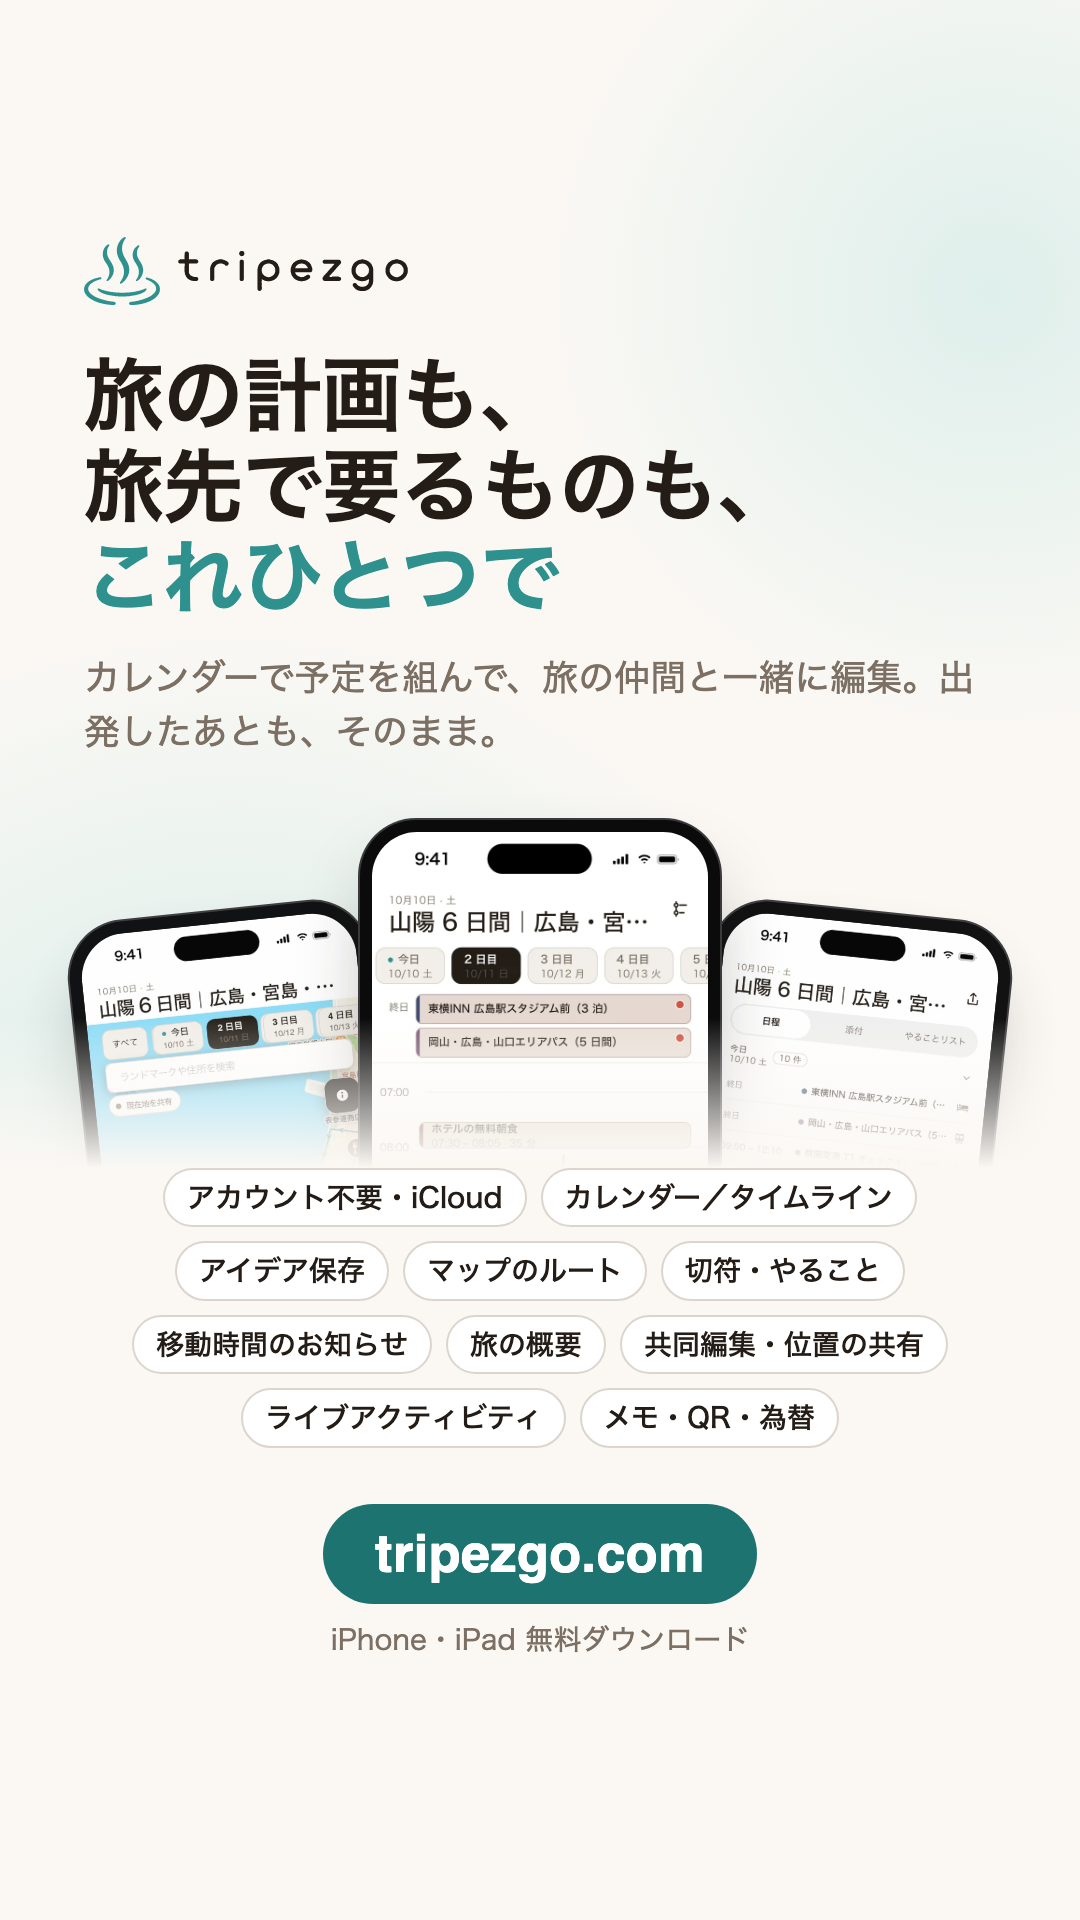
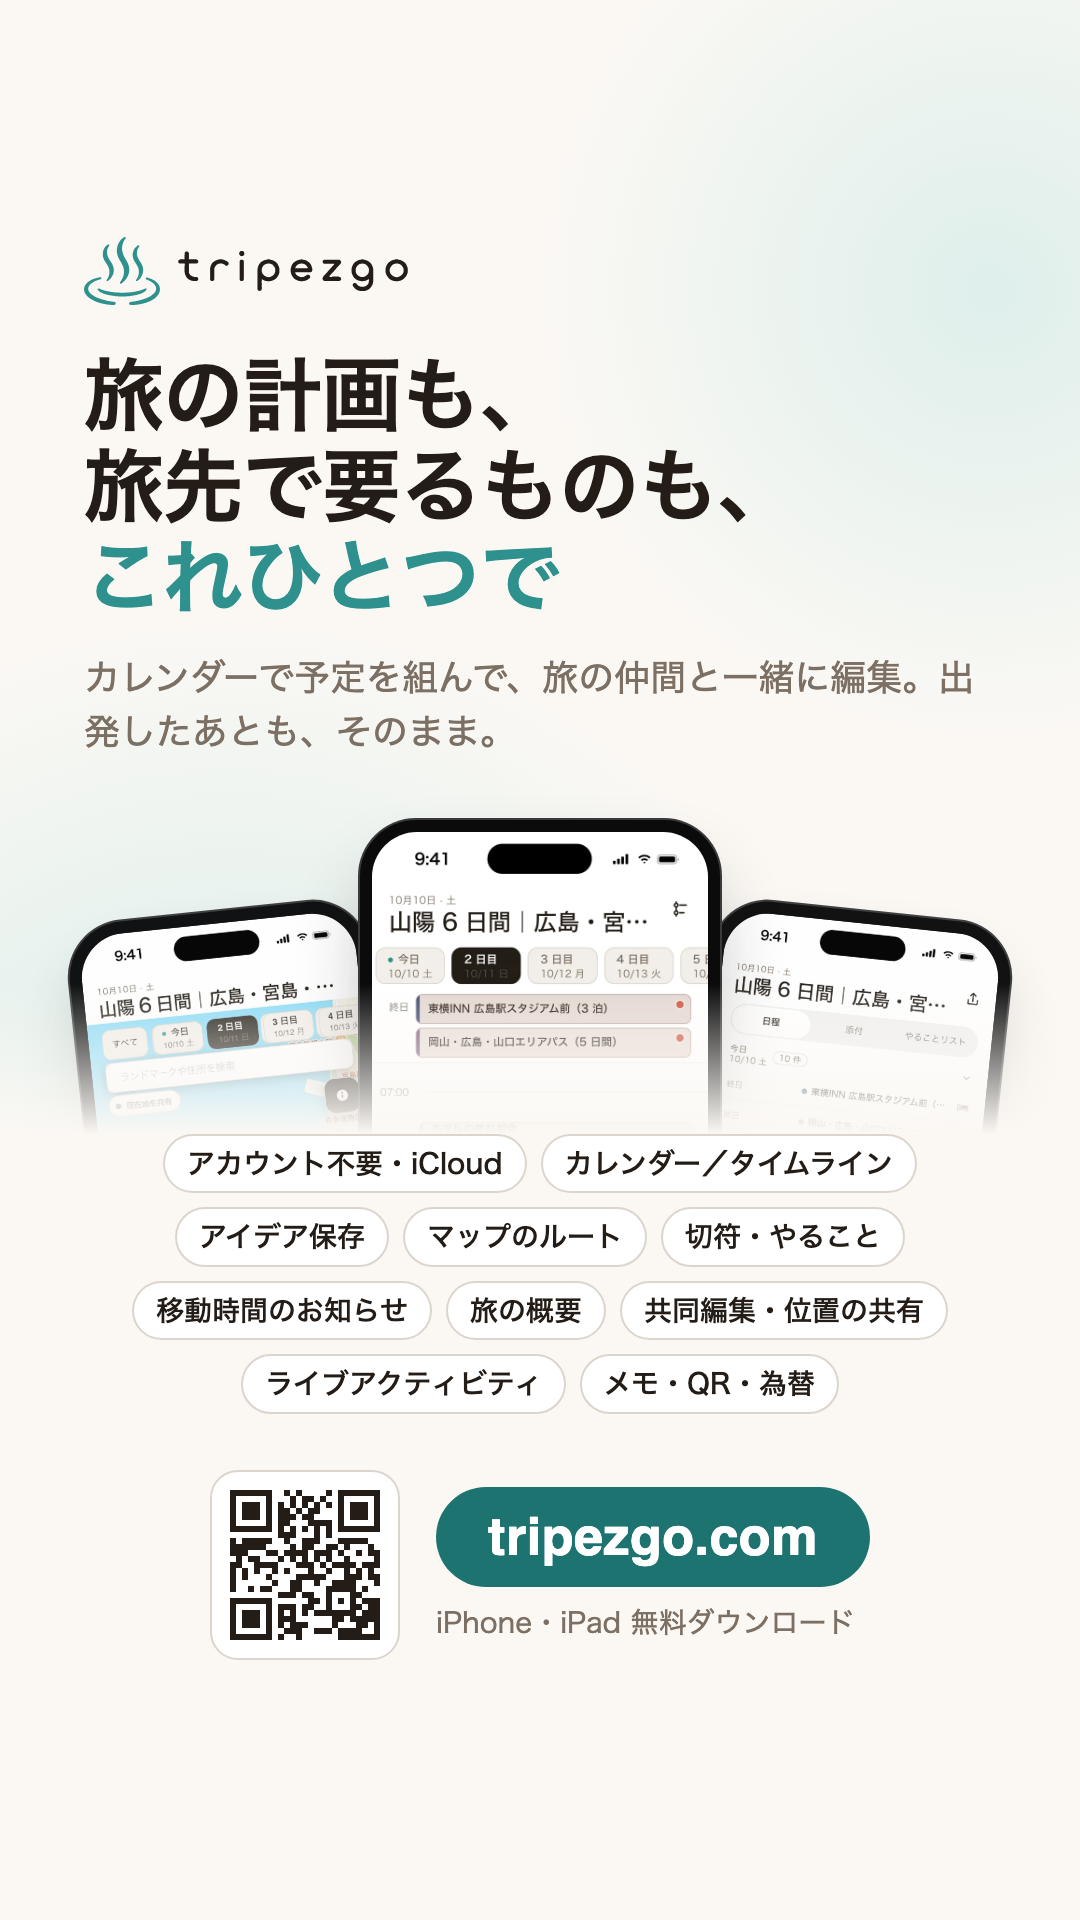
home offer: copy changes to 'copied' on the first tap on iPhone Safari (synchronous copy first, hover styles only for a mouse); Instagram puts the Story image on the clipboard and opens Instagram's Story camera directly; the Story image carries a QR code for tripezgo.com, so the link-sticker note is

Changed region(s): [[0.0611, 0.5, 0.8556, 0.875], [0.8861, 0.5, 0.9472, 0.5938]]

diff --git a/assets/js/promo.js b/assets/js/promo.js
@@ -216,27 +216,42 @@ function start() {
     copyBtn.classList.remove('is-done'); copyLabel.textContent = T.copy;
     if (stage === 2) { stage = 1; render(); }
   });
-  copyBtn.addEventListener('click', async () => {
-    try { await navigator.clipboard.writeText(text); copyLabel.textContent = T.copied; }
-    catch { copyLabel.textContent = T.copyFailed; }
-    copyBtn.classList.add('is-done');
-    advance(2);
+  // 複製：先在同一個手勢裡同步複製（隱藏 textarea＋execCommand），按下去當下就變「已複製」；
+  // iPhone Safari 等 navigator.clipboard 的 Promise 時第一下看起來沒反應（使用者 2026-10-24），這條只在同步複製失敗時才走。
+  const copied = (ok) => { copyLabel.textContent = ok ? T.copied : T.copyFailed; copyBtn.classList.add('is-done'); advance(2); };
+  copyBtn.addEventListener('click', () => {
+    const ta = Object.assign(document.createElement('textarea'), { value: text, readOnly: true });
+    ta.style.cssText = 'position:fixed;top:0;left:0;opacity:0;font-size:16px';   // 16px：iOS 不會因為選取而放大頁面
+    document.body.append(ta); ta.select(); ta.setSelectionRange(0, text.length);
+    let ok = false;
+    try { ok = document.execCommand('copy'); } catch {}
+    ta.remove(); getSelection()?.removeAllRanges();
+    if (ok || !navigator.clipboard) return copied(ok);
+    navigator.clipboard.writeText(text).then(() => copied(true), () => copied(false));
   });
   // 按過分享、而且從社群那一頁回來（分頁重新可見或視窗重新取得焦點）才算完成第 2 步
   root.querySelectorAll('a[data-net]').forEach((a) => {
     a.addEventListener('click', (e) => { if (allowed(2, e)) { a.href = shareUrl(a.dataset.net); a.classList.add('is-done'); shared = true; } });
   });
-  // Instagram：網頁不能直接發限時動態，改成把限時動態圖（assets/img/story-<lang>.png，tools/og/story.html 產生）
-  // 交給系統分享表，在手機上選 Instagram 就會進限時動態；不能分享檔案的瀏覽器（桌機）就下載圖片並說明怎麼發。
-  // 圖片進來就先抓好：iOS Safari 要在按下去的同一個手勢裡呼叫 navigator.share，按了才去抓會被擋。
+  // Instagram：網頁沒辦法把圖交給 instagram-stories:// —— 官方那條要 Facebook App ID 加 UIPasteboard 自訂型別／Android Intent，
+  // 只有原生 App 做得到（developers.facebook.com/docs/instagram-platform/sharing-to-stories）。
+  // 手機上改成：把限時動態圖（assets/img/story-<lang>.png，tools/og/story.html 產生）放進剪貼簿，再用 instagram://story-camera
+  // 直接打開 Instagram 的限時動態相機，圖在剪貼簿裡可以貼上；剪貼簿寫不進圖片就退回系統分享表。
+  // 桌機打不開 Instagram，下載圖片並說明怎麼發。
+  // 圖片進來就先抓好：剪貼簿與分享表都要在按下去的同一個手勢裡呼叫，按了才去抓會被擋。
   const ig = root.querySelector('[data-net="instagram"]');
   let story = null;
   fetch(`/assets/img/story-${LANG}.png`).then((r) => r.blob()).then((b) => { story = new File([b], 'tripezgo-story.png', { type: 'image/png' }); }).catch(() => {});
+  const shareSheet = () => navigator.share({ files: [story] }).then(() => { shared = true; advance(3); }).catch(() => {});
   ig.addEventListener('click', (e) => {
     if (!allowed(2, e) || !story) return;
     ig.classList.add('is-done');
-    if (navigator.canShare?.({ files: [story] })) {
-      navigator.share({ files: [story] }).then(() => { shared = true; advance(3); }).catch(() => {});
+    if (matchMedia('(pointer: coarse)').matches && navigator.clipboard?.write && window.ClipboardItem) {
+      navigator.clipboard.write([new ClipboardItem({ 'image/png': story })])
+        .then(() => { shared = true; location.href = 'instagram://story-camera'; })
+        .catch(() => { if (navigator.canShare?.({ files: [story] })) shareSheet(); });
+    } else if (navigator.canShare?.({ files: [story] })) {
+      shareSheet();
     } else {
       const a = Object.assign(document.createElement('a'), { href: URL.createObjectURL(story), download: story.name });
       a.click(); setTimeout(() => URL.revokeObjectURL(a.href), 1000);

diff --git a/assets/css/home.css b/assets/css/home.css
@@ -930,7 +930,8 @@ html, body { overflow-x: clip; overscroll-behavior-x: none; }
   box-shadow:0 10px 24px -12px color-mix(in srgb, var(--accent-ink) 80%, transparent);
   transition:transform .12s ease, background-color .12s ease;
 }
-.promo-jump:hover { color:var(--accent-on); background:color-mix(in srgb, var(--accent-ink) 82%, var(--fg)); transform:translateY(-1px); }
+/* hover 只給滑鼠：手機上第一下會先被當成 hover（iPhone Safari 要點兩下） */
+@media (hover:hover) { .promo-jump:hover { color:var(--accent-on); background:color-mix(in srgb, var(--accent-ink) 82%, var(--fg)); transform:translateY(-1px); } }
 .promo-jump-tag {
   flex:none; padding:3px 10px; border-radius:var(--radius-pill);
   background:var(--accent-on); color:var(--accent-ink); font-size:var(--text-xs); font-weight:700;
@@ -986,7 +987,8 @@ html, body { overflow-x: clip; overscroll-behavior-x: none; }
   border-radius:var(--radius-pill); border:1px solid var(--border); background:var(--page);
   color:var(--fg); font:inherit; font-size:var(--text-sm); font-weight:600; text-decoration:none; cursor:pointer;
 }
-.promo .chip:hover { border-color:var(--accent); background:var(--accent-wash); color:var(--fg); }
+@media (hover:hover) { .promo .chip:hover { border-color:var(--accent); background:var(--accent-wash); color:var(--fg); } }
+.promo .chip, .promo .btn-redeem, .promo-jump { touch-action:manipulation; -webkit-tap-highlight-color:transparent; }
 .promo .chip .i { width:16px; height:16px; color:var(--accent-ink); }
 .promo .chip.is-done { border-color:var(--accent-ink); color:var(--accent-ink); }
 .promo .redeem-row { margin-top:12px; }
@@ -994,5 +996,4 @@ html, body { overflow-x: clip; overscroll-behavior-x: none; }
 .promo .btn-redeem[aria-disabled="true"] { opacity:.45; cursor:not-allowed; pointer-events:auto; }
 .promo .btn-redeem[aria-disabled="true"]:hover { transform:none; background:var(--accent-ink); }
 .promo .step-body > p.redeem-hint { font-size:12.5px; }
-.promo .step-body > p.ig-note { margin-top:10px; font-size:12.5px; }
 @media (prefers-reduced-motion:reduce) { .promo-jump-go { animation:none; } .promo .step { transition:none; } }

diff --git a/tools/og/story.html b/tools/og/story.html
@@ -47,7 +47,11 @@
   .feats span { padding:12px 24px; border-radius:999px; background:#fff; border:2px solid #dbd5cd;
     font-size:30px; font-weight:600; line-height:1.2; white-space:nowrap; }
   body[data-lang="en"] .feats span, body[data-lang="ja"] .feats span { font-size:28px; padding:11px 22px; }
-  .url { display:flex; flex-direction:column; align-items:center; gap:14px; }
+  /* 網址列：左邊 tripezgo.com 的 QR code（assets/img/site-qr.svg），右邊網址膠囊＋下載說明 */
+  .url-row { display:flex; align-items:center; gap:36px; }
+  .qr { flex:none; width:190px; height:190px; padding:18px; border-radius:28px; background:#fff; border:2px solid #dbd5cd; box-sizing:border-box; }
+  .qr i { display:block; width:100%; height:100%; background:var(--ink); -webkit-mask:url(../../assets/img/site-qr.svg) center/contain no-repeat; }
+  .url { display:flex; flex-direction:column; align-items:flex-start; gap:14px; }
   .url b { display:inline-block; padding:20px 52px; border-radius:999px; background:var(--teal-ink); color:#fff;
     font-family:-apple-system,"SF Pro Display","Inter",sans-serif; font-size:52px; letter-spacing:.01em; }
   .url small { font-size:28px; color:var(--muted); font-weight:500; }
@@ -66,7 +70,10 @@
   </div>
   <div class="bottom">
     <div class="feats" id="feats"></div>
-    <div class="url"><b>tripezgo.com</b><small id="dl"></small></div>
+    <div class="url-row">
+      <div class="qr"><i></i></div>
+      <div class="url"><b>tripezgo.com</b><small id="dl"></small></div>
+    </div>
   </div>
 <script>
   // 標題的 [ ] 是青綠色那一段；十大特色照廣告片的十個章節（官網首頁的順序）

diff --git a/ja/index.html b/ja/index.html
@@ -34,9 +34,9 @@
 <meta name="twitter:title" content="TripEZGo — 旅行計画・旅程表アプリ｜カレンダーで予定、旅の仲間と共同編集">
 <meta name="twitter:description" content="iPhone・iPad の旅行計画アプリ。カレンダーで旅程表を作り、移動はタイムラインで、旅の仲間と共同編集。登録不要・オフライン対応、無料でダウンロード。">
 <meta name="twitter:image" content="https://tripezgo.com/assets/img/og-ja.png">
-<link rel="stylesheet" href="/assets/css/home.css?v=4e5d98ad4b">
+<link rel="stylesheet" href="/assets/css/home.css?v=888a7e6f63">
 <script type="module" src="/assets/js/home.js?v=98d4b33830"></script>
-<script type="module" src="/assets/js/promo.js?v=fafb8e8867"></script>
+<script type="module" src="/assets/js/promo.js?v=5c0000bbe0"></script>
 <script type="application/ld+json">
 {
   "@context": "https://schema.org",
@@ -247,7 +247,6 @@
                 <a class="chip" data-net="x" href="#" target="_blank" rel="noopener">X</a>
                 <a class="chip" data-net="line" href="#" target="_blank" rel="noopener">LINE</a>
               </div>
-              <p class="ig-note">Instagram ではストーリーズ用の画像をシェアします。tripezgo.com のリンクスタンプを付けてください。</p>
             </div>
           </li>
           <li class="step">

diff --git a/ko/index.html b/ko/index.html
@@ -34,9 +34,9 @@
 <meta name="twitter:title" content="TripEZGo — 여행 플래너 앱｜캘린더로 일정, 동행과 공동 편집">
 <meta name="twitter:description" content="iPhone·iPad 여행 플래너 앱. 캘린더로 일정을 짜고 이동은 타임라인으로, 동행과 함께 편집하세요. 회원가입 없이 오프라인에서도, 무료로 다운로드.">
 <meta name="twitter:image" content="https://tripezgo.com/assets/img/og-ko.png">
-<link rel="stylesheet" href="/assets/css/home.css?v=4e5d98ad4b">
+<link rel="stylesheet" href="/assets/css/home.css?v=888a7e6f63">
 <script type="module" src="/assets/js/home.js?v=98d4b33830"></script>
-<script type="module" src="/assets/js/promo.js?v=fafb8e8867"></script>
+<script type="module" src="/assets/js/promo.js?v=5c0000bbe0"></script>
 <script type="application/ld+json">
 {
   "@context": "https://schema.org",
@@ -247,7 +247,6 @@
                 <a class="chip" data-net="x" href="#" target="_blank" rel="noopener">X</a>
                 <a class="chip" data-net="line" href="#" target="_blank" rel="noopener">LINE</a>
               </div>
-              <p class="ig-note">Instagram은 스토리용 이미지를 공유해요. tripezgo.com 링크 스티커를 붙여 주세요.</p>
             </div>
           </li>
           <li class="step">

diff --git a/index.html b/index.html
@@ -34,9 +34,9 @@
 <meta name="twitter:title" content="TripEZGo — 旅行規劃 App｜行事曆排行程、旅伴共編">
 <meta name="twitter:description" content="TripEZGo 是 iPhone、iPad 的旅行規劃 App：行事曆排行程、時間軸排交通，跟旅伴一起共編，自由行的行程表、票券與待辦都在一起。免註冊、離線可用，免費下載。">
 <meta name="twitter:image" content="https://tripezgo.com/assets/img/og-zh.png">
-<link rel="stylesheet" href="/assets/css/home.css?v=4e5d98ad4b">
+<link rel="stylesheet" href="/assets/css/home.css?v=888a7e6f63">
 <script type="module" src="/assets/js/home.js?v=98d4b33830"></script>
-<script type="module" src="/assets/js/promo.js?v=fafb8e8867"></script>
+<script type="module" src="/assets/js/promo.js?v=5c0000bbe0"></script>
 <script type="application/ld+json">
 {
   "@context": "https://schema.org",
@@ -251,7 +251,6 @@
                 <a class="chip" data-net="x" href="#" target="_blank" rel="noopener">X</a>
                 <a class="chip" data-net="line" href="#" target="_blank" rel="noopener">LINE</a>
               </div>
-              <p class="ig-note">Instagram 會分享一張限時動態圖，記得加上 tripezgo.com 的連結貼紙。</p>
             </div>
           </li>
           <li class="step">

diff --git a/en/index.html b/en/index.html
@@ -34,9 +34,9 @@
 <meta name="twitter:title" content="TripEZGo — Travel Planner & Itinerary App for iPhone and iPad">
 <meta name="twitter:description" content="Travel planner and itinerary app for iPhone and iPad: plan days on a calendar, map each route and co-edit with travel companions. No sign-up, works offline. Free.">
 <meta name="twitter:image" content="https://tripezgo.com/assets/img/og-en.png">
-<link rel="stylesheet" href="/assets/css/home.css?v=4e5d98ad4b">
+<link rel="stylesheet" href="/assets/css/home.css?v=888a7e6f63">
 <script type="module" src="/assets/js/home.js?v=98d4b33830"></script>
-<script type="module" src="/assets/js/promo.js?v=fafb8e8867"></script>
+<script type="module" src="/assets/js/promo.js?v=5c0000bbe0"></script>
 <script type="application/ld+json">
 {
   "@context": "https://schema.org",
@@ -247,7 +247,6 @@
                 <a class="chip" data-net="x" href="#" target="_blank" rel="noopener">X</a>
                 <a class="chip" data-net="line" href="#" target="_blank" rel="noopener">LINE</a>
               </div>
-              <p class="ig-note">Instagram shares an image to your Story. Add a link sticker for tripezgo.com.</p>
             </div>
           </li>
           <li class="step">

diff --git a/tools/home-i18n.py b/tools/home-i18n.py
@@ -636,7 +636,6 @@ T = {
   '換一個': ('Try another', '別の文章にする', '다른 문구'),
   '分享到社群': ('Share on social media', 'SNS でシェア', 'SNS에 공유'),
   '貼文設成公開，記得留著 tripezgo.com。': ('Make the post public and keep tripezgo.com in it.', '投稿は公開にして、tripezgo.com は消さずに残してください。', '게시물은 공개로 설정하고 tripezgo.com은 지우지 마세요.'),
-  'Instagram 會分享一張限時動態圖，記得加上 tripezgo.com 的連結貼紙。': ('Instagram shares an image to your Story. Add a link sticker for tripezgo.com.', 'Instagram ではストーリーズ用の画像をシェアします。tripezgo.com のリンクスタンプを付けてください。', 'Instagram은 스토리용 이미지를 공유해요. tripezgo.com 링크 스티커를 붙여 주세요.'),
   '完成兌換': ('Redeem', '引き換える', '교환하기'),
   '前往 App Store 兌換': ('Redeem on the App Store', 'App Store で引き換える', 'App Store에서 교환'),
   '分享之後就能兌換。': ('You can redeem once you’ve shared.', 'シェアしたら引き換えられます。', '공유하면 교환할 수 있어요.'),
